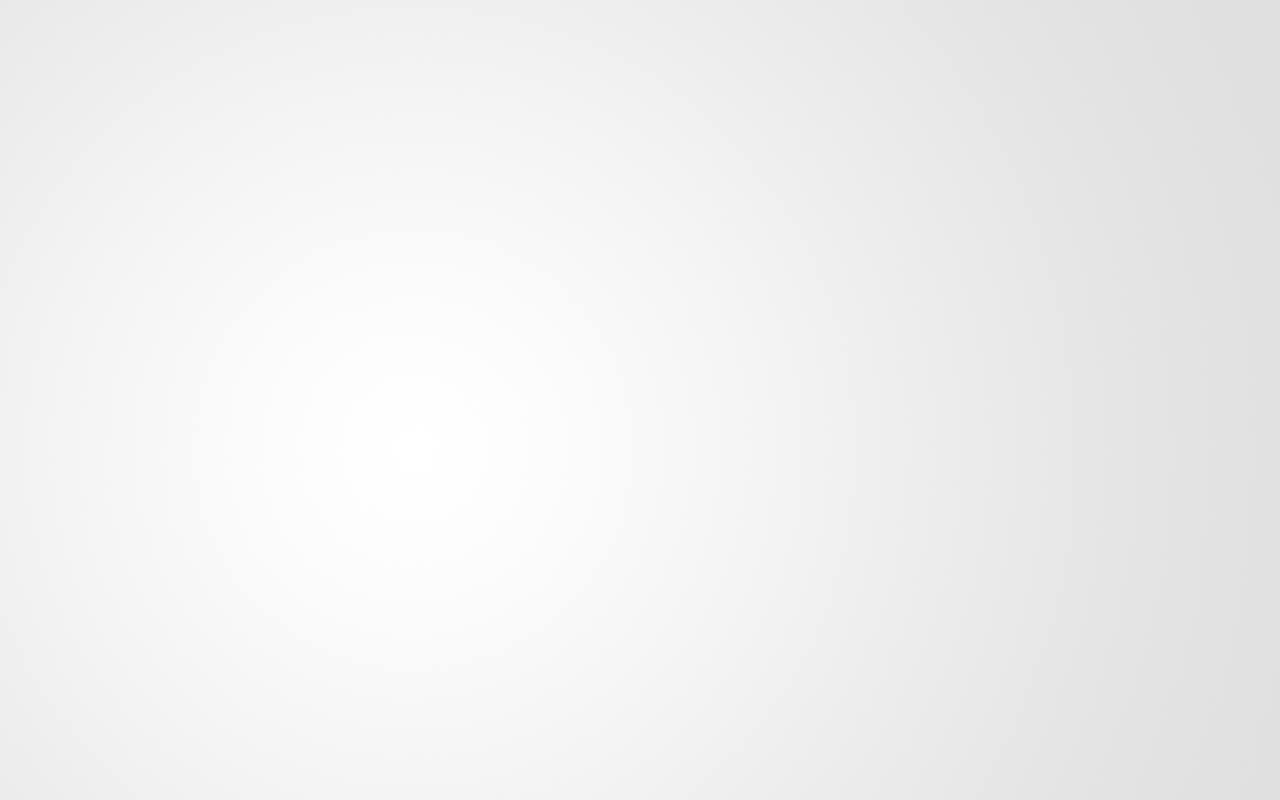
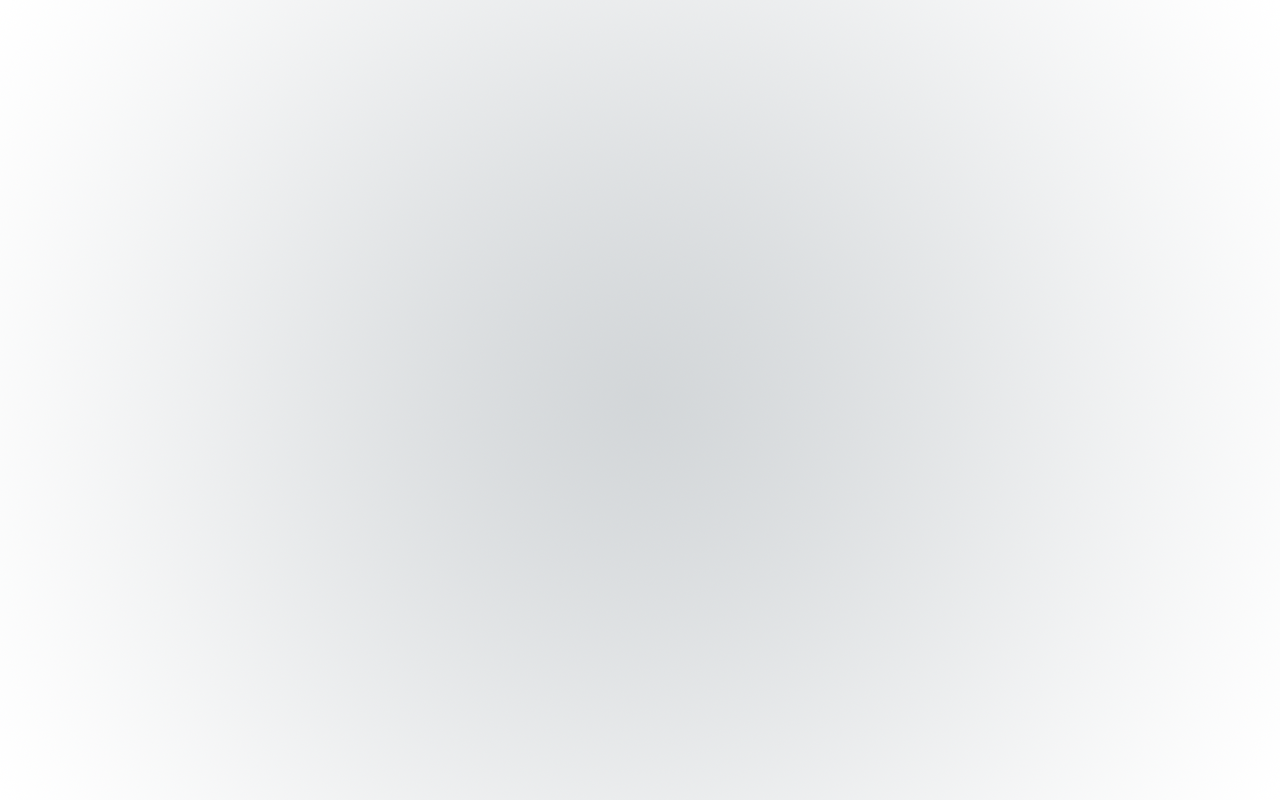
stylesheet changes

Changed region(s): [[0.25, 0.2188, 0.625, 0.8125], [0.875, 0.0, 1.0, 1.0]]

diff --git a/public/stylesheets/styles.css b/public/stylesheets/styles.css
@@ -1,16 +1,17 @@
+
 body 
 {
 	font-family: verdana, helvetica, arial, sans-serif;
 	font-size: 10px;
 	text-align: left;
 	color: #424242;
-	background: url(/images/background.png);
+	background-color: #efefef;
 }
 
 input
 {
-	color: #e5eaed;
-	border: 1px solid #336300;
+	color: #000000;
+	border: 1px solid #000000;
 	background-image: url(/images/input.png);
 }
 
@@ -55,4 +56,20 @@ p
 table
 {
 	border: 1px dashed #d4d4d4;
+}
+
+div.login_pane
+{
+	color: gray;
+	background-color: silver;
+	position: fixed;
+	z-index: 1;
+	font-weight: bold;
+	font-size: 12px;
+	width: 200px;
+	height: 200px;
+	padding: 3px;
+	top: 50px;
+	right: 50px;
+	border: 2px solid black;
 }
